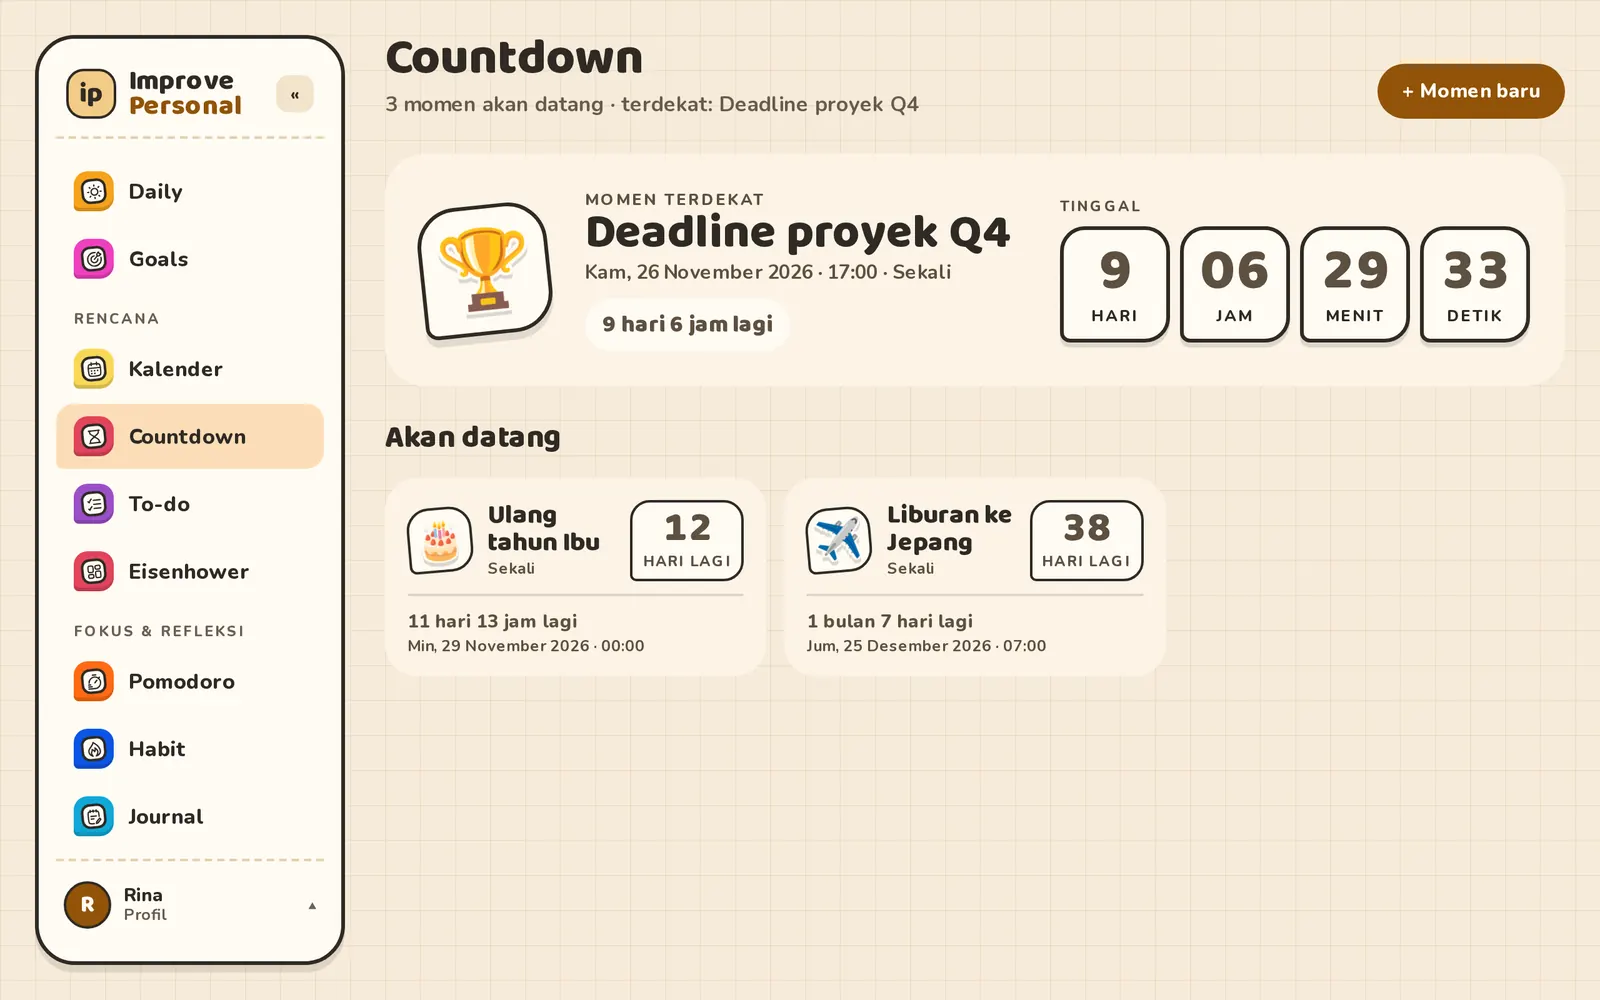
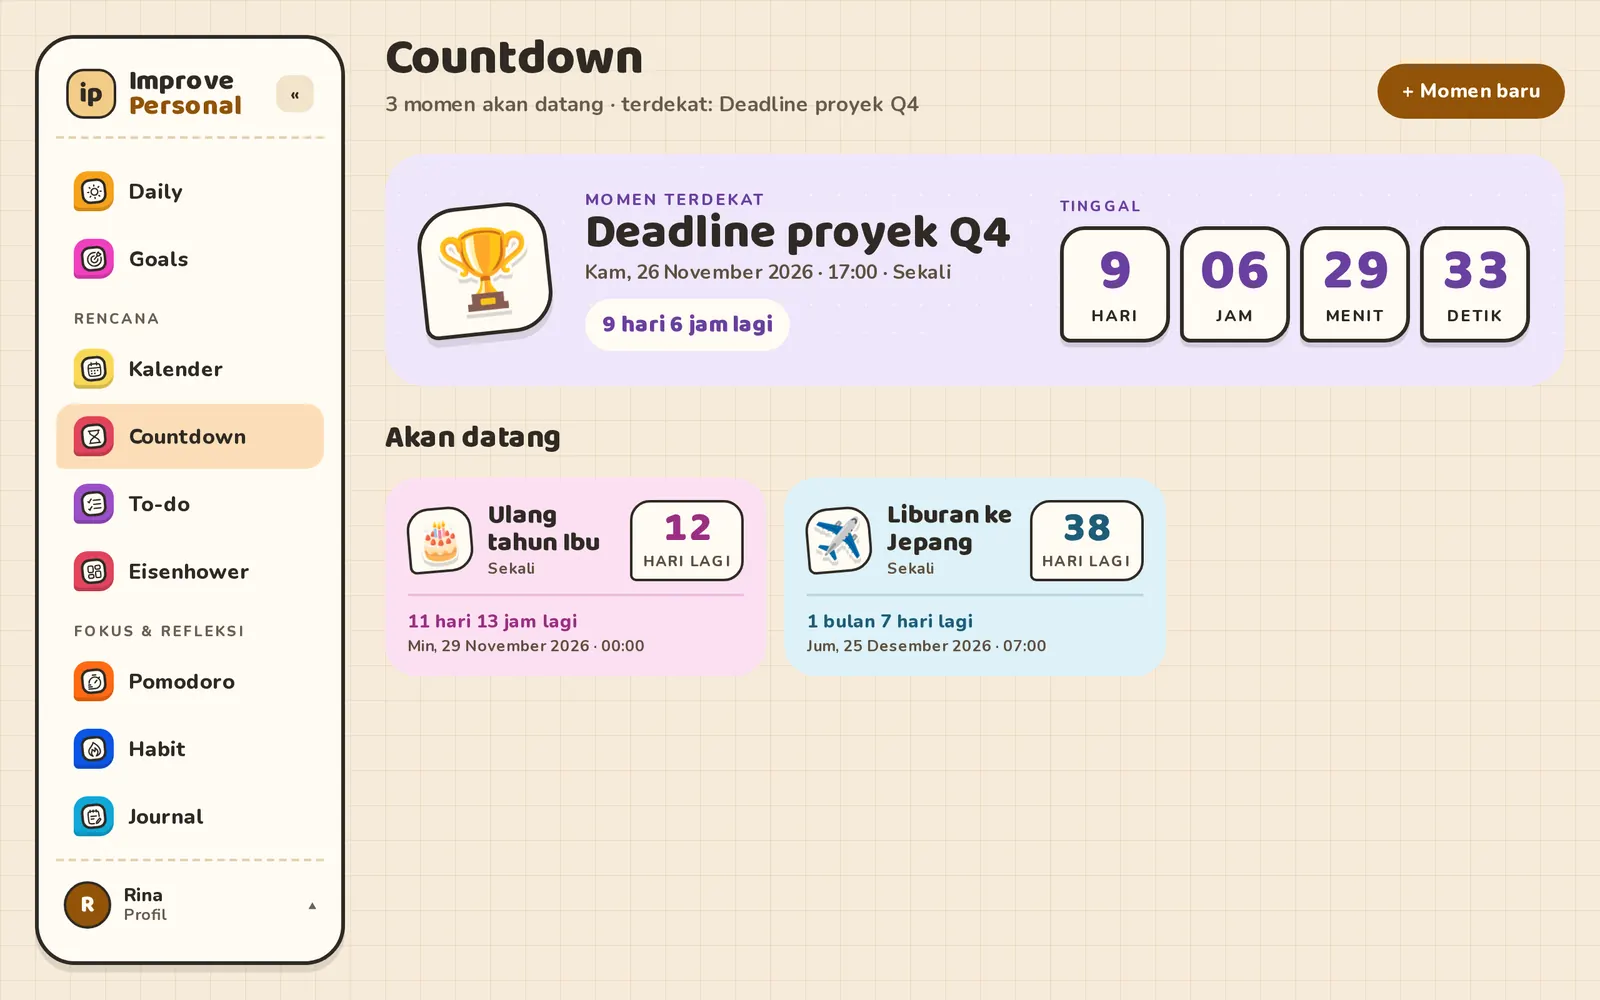
fix(web): rapikan kartu Eisenhower, daftar Goals, dan jadwal kalender pekan
- Eisenhower: pill Fokus melayang (tidak lagi memeras judul jadi satu kata per baris)
- Goals: persentase pindah ke baris progress, dibulatkan
- Kalender pekan: clamp 2 baris judul benar-benar aktif (white-space: normal)
- Data contoh countdown pakai warna hex; screenshot landing diambil ulang

diff --git a/apps/web/app/components/features/eisenhower/EisenhowerCard.vue b/apps/web/app/components/features/eisenhower/EisenhowerCard.vue
@@ -1,7 +1,13 @@
 <script setup lang="ts">
 import { isOverdue, type Task } from '~/utils/tasks'
 
-/** Kartu task di kuadran: pegangan drag, centang, sisa waktu, titik prioritas, "▶ Fokus", keluarkan. */
+/**
+ * Kartu task di kuadran: pegangan drag, centang, sisa waktu, titik prioritas, "▶ Fokus", keluarkan.
+ *
+ * "▶ Fokus" melayang di pojok kanan bawah kartu (absolute), bukan ikut baris: tombol hover-reveal
+ * tetap memakan lebar walau transparan, dan di kuadran yang sempit lebar itu dulu memeras judul
+ * jadi satu kata per baris.
+ */
 const {
   task,
   now,
@@ -32,23 +38,25 @@ const timeLeft = computed(() => (task.done ? t('time.done') : formatTimeLeft(tas
     />
     <span class="text">
       <span class="title">{{ task.title }}</span>
-      <span class="left" :class="{ overdue: isOverdue(task, now) }">{{ timeLeft }}</span>
+      <span class="meta">
+        <span class="left" :class="{ overdue: isOverdue(task, now) }">{{ timeLeft }}</span>
+        <Button
+          v-if="!task.done"
+          variant="chip"
+          size="xs"
+          class="focus reveal"
+          :aria-label="$t('daily.focusLabel', { title: task.title })"
+          @click.stop="$emit('focus', task.title)"
+        >
+          {{ $t('daily.focus') }}
+        </Button>
+      </span>
     </span>
     <span
       class="prio"
       :style="{ background: `var(--prio-${task.priority}-fg)` }"
       :title="$t(`priority.${task.priority}`)"
     />
-    <Button
-      v-if="!task.done"
-      variant="chip"
-      size="xs"
-      class="focus reveal"
-      :aria-label="$t('daily.focusLabel', { title: task.title })"
-      @click.stop="$emit('focus', task.title)"
-    >
-      {{ $t('daily.focus') }}
-    </Button>
     <IconButton
       tone="muted"
       :size="26"
@@ -64,6 +72,7 @@ const timeLeft = computed(() => (task.done ? t('time.done') : formatTimeLeft(tas
 
 <style scoped>
 .card {
+  position: relative;
   display: flex;
   align-items: center;
   gap: var(--space-10);
@@ -97,11 +106,19 @@ const timeLeft = computed(() => (task.done ? t('time.done') : formatTimeLeft(tas
   min-width: 0;
   display: flex;
   flex-direction: column;
+  gap: 2px;
 }
 
 .title {
   font-weight: var(--fw-strong);
   font-size: var(--fs-14);
+  line-height: 1.3;
+  overflow-wrap: anywhere;
+}
+
+.meta {
+  display: flex;
+  align-items: center;
 }
 
 .done .title {
@@ -127,10 +144,13 @@ const timeLeft = computed(() => (task.done ? t('time.done') : formatTimeLeft(tas
   border-radius: 50%;
 }
 
-/* Design kartu Eisenhower: pill "▶ Fokus" 26px, padding 0 10, teks 12px. Button xs sudah
-   segitu; dikunci di sini supaya tidak ikut mengecil kalau primitif berubah. */
-.card > .focus {
-  min-height: 26px;
+/* Design kartu Eisenhower: pill "▶ Fokus" 22px, padding 0 10, teks 12px. Melayang di kiri kolom
+   titik prioritas + "×" (48px dari kanan) supaya tidak menutupi keduanya saat muncul. */
+.meta > .focus {
+  position: absolute;
+  right: 48px;
+  bottom: var(--space-6);
+  min-height: 22px;
   padding: 0 var(--space-10);
   font-size: var(--fs-12);
 }

diff --git a/apps/web/app/components/features/goal/GoalListCard.vue b/apps/web/app/components/features/goal/GoalListCard.vue
@@ -14,6 +14,8 @@ defineEmits<{ select: [] }>()
 
 const { dayMonthYear } = useDateFormat()
 const progress = computed(() => goalProgress(goal))
+/** Daftar cukup bilangan bulat; desimal ("33.3%") hanya menambah lebar tanpa info berarti. */
+const progressLabel = computed(() => Math.round(progress.value))
 const isReview = computed(() => needsReview(goal, today))
 /** Status "aktif" adalah keadaan normal - chip-nya cuma menambah bising (design v2). */
 const hasChips = computed(() => goal.status !== 'aktif' || isReview.value)
@@ -41,9 +43,13 @@ const palette = computed(() => ({
           {{ $t('goals.target', { date: dayMonthYear(fromIsoDate(goal.end).getTime()) }) }}
         </span>
       </span>
-      <span class="pct">{{ progress }}%</span>
     </span>
-    <ProgressBar class="bar" :pct="progress" color="var(--goal-solid)" track="var(--chip)" />
+    <!-- Persentase di baris progress, bukan di baris judul: kolom daftar sempit, dan angka di
+         samping judul dulu memeras judul jadi satu kata per baris. -->
+    <span class="progress">
+      <ProgressBar class="bar" :pct="progress" color="var(--goal-solid)" track="var(--chip)" />
+      <span class="pct">{{ progressLabel }}%</span>
+    </span>
     <span v-if="hasChips" class="chips">
       <GoalChip v-if="goal.status !== 'aktif'" :tone="GOAL_STATUS_TONE[goal.status]">{{
         $t(`goals.status.${goal.status}`)
@@ -89,6 +95,7 @@ const palette = computed(() => ({
   font-weight: var(--fw-display);
   font-size: var(--fs-display-18);
   line-height: 1.15;
+  text-wrap: balance;
 }
 
 .meta {
@@ -97,10 +104,20 @@ const palette = computed(() => ({
   color: var(--mute);
 }
 
+.progress {
+  display: flex;
+  align-items: center;
+  gap: var(--space-10);
+}
+
+.bar {
+  flex: 1;
+}
+
 .pct {
   font-family: var(--font-display);
   font-weight: var(--fw-display);
-  font-size: var(--fs-display-18);
+  font-size: var(--fs-display-15);
   font-variant-numeric: tabular-nums;
 }
 

diff --git a/apps/web/scripts/landing/demo-data.ts b/apps/web/scripts/landing/demo-data.ts
@@ -341,9 +341,9 @@ export function buildDemoBackup(nowMs: number): string {
 
   // Countdown.
   const countdowns: [string, number, string, string][] = [
-    ['Liburan ke Jepang', at(38, 7), 'perjalanan/pesawat', PALETTE.pink],
-    ['Ulang tahun Ibu', at(12, 0), 'perayaan/kue', PALETTE.orange],
-    ['Deadline proyek Q4', at(9, 17), 'perayaan/piala', PALETTE.purple],
+    ['Liburan ke Jepang', at(38, 7), 'perjalanan/pesawat', '#10A8D8'],
+    ['Ulang tahun Ibu', at(12, 0), 'perayaan/kue', '#F03FBF'],
+    ['Deadline proyek Q4', at(9, 17), 'perayaan/piala', '#9B4FC9'],
   ]
   for (const [name, targetAt, sticker, color] of countdowns) {
     add('countdown', {

diff --git a/apps/web/app/components/features/calendar/CalendarGridEvent.vue b/apps/web/app/components/features/calendar/CalendarGridEvent.vue
@@ -291,6 +291,9 @@ const focusStyle = computed(() => focusPillStyle(item.size === 'tiny'))
   display: -webkit-box;
   -webkit-line-clamp: 2;
   -webkit-box-orient: vertical;
+  /* `.title` memaksa satu baris; tanpa reset ini clamp 2 baris di kolom pekan tidak pernah
+     terjadi dan judul terpotong jadi "Olah…". */
+  white-space: normal;
   overflow-wrap: anywhere;
   font-size: var(--fs-13);
 }
